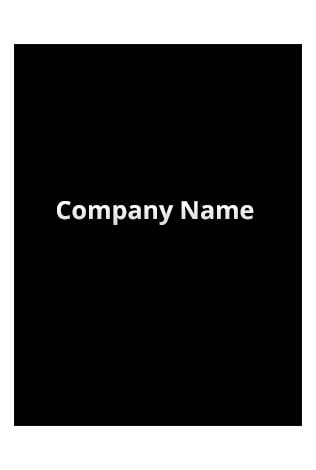
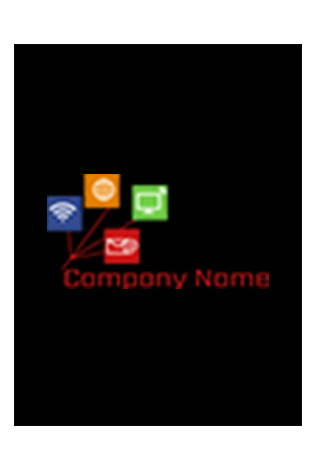
new img, section

Changed region(s): [[0.1424, 0.3574, 0.8544, 0.6255], [0.5696, 0.417, 0.7975, 0.4766]]

diff --git a/css/style.css b/css/style.css
@@ -23,6 +23,12 @@ h3 {
   font-weight: 400;
 }
 
+/* p,
+div,
+a,
+span {
+  line-height: 1.6em;
+} */
 /* End Global */
 
 /* Start first screen */
@@ -31,6 +37,7 @@ h3 {
   background: #fcdb00;
   color: #010101;
   padding-top: 58px;
+  padding-bottom: 105px;
 }
 .header .row {
   justify-content: space-between;
@@ -48,5 +55,44 @@ h3 {
   font-size: 22px;
   font-weight: 700;
   color: #000;
+}
+
+.offer {
+  margin-top: 117px;
+}
+
+.offer__title {
+  font-size: 32px;
+  margin-bottom: 15px;
+}
+
+.offer__intro {
+  font-size: 20px;
+}
+.offer__text {
+  font-size: 16px;
+  margin-top: 20px;
+  color: #555555;
+  width: 400px;
+}
+
+.icons__item {
+  margin-right: 30px;
+}
+
+.icons__item a {
+  color: #000;
+  font-size: 42px;
+  transition: all 0.3s ease;
+}
+
+.icons__item a:hover {
+  text-decoration: none;
+  color: #ff4800;
+}
+
+.ipad {
+  display: block;
+  margin: 60px auto;
 }
 /* End first screen */
